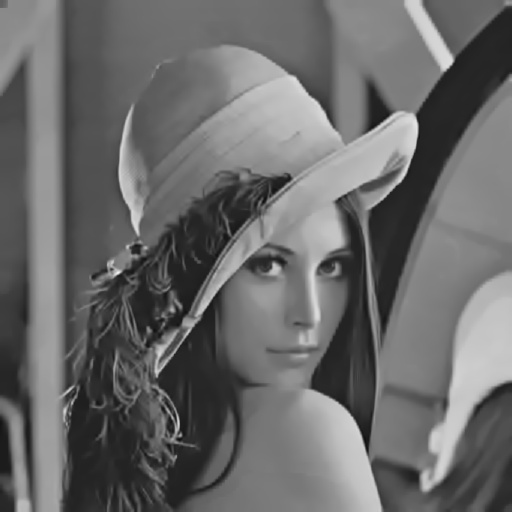
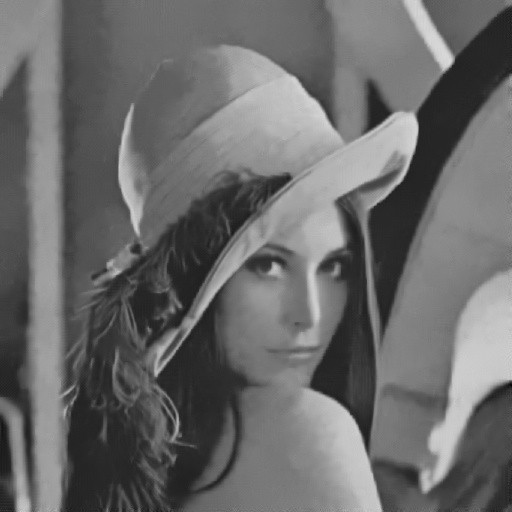
fix some minor bugs

diff --git a/BM3D_Step1.py b/BM3D_Step1.py
@@ -2,10 +2,10 @@ import cv2
 import numpy as np
 
 block_size = 8
-search_window_size = 50
+search_window_size = 39
 search_step = 3
-match_threshold = 50
-max_match_block = 8
+match_threshold = 2500
+max_match_block = 16
 filter_3D_threshold = 70
 beta_Kaiser = 2.0
 
@@ -43,9 +43,10 @@ def block_matching(image, block_coord):
 	img_block_dct = cv2.dct(img_block.astype(np.float64))
 
 	blk_num = int((search_window_size - block_size)/search_step)
+	# print(blk_num)
 	window_x, window_y = get_search_window(image, block_coord)
 
-	similar_blks_dct = np.zeros([blk_num**2, block_size, block_size])
+	similar_blks_dct = np.zeros([blk_num**2, block_size, block_size], dtype=float)
 	similar_blks_pos = np.zeros([blk_num**2, 2], dtype=int)
 	blk_distances = np.zeros(blk_num**2)
 
@@ -59,6 +60,7 @@ def block_matching(image, block_coord):
 			temp_blk_dct = cv2.dct(temp_blk.astype(np.float64))
 
 			distance = np.linalg.norm(img_block_dct - temp_blk_dct)
+			# print(distance)
 
 			# Threshold filtering
 			if distance < match_threshold:
@@ -69,7 +71,8 @@ def block_matching(image, block_coord):
 
 	# Because OpenCV cannot do odd-numbered DCT transforms
 	# so need to limit the value of w
-	if match_index >= max_match_block:
+	# print(match_index)
+	if match_index > max_match_block:
 		match_index = max_match_block
 
 	if match_index%2 == 1:
@@ -77,7 +80,8 @@ def block_matching(image, block_coord):
 	if match_index == 0:
 		match_index = 2
 
-	blk_distances = blk_distances[0:match_index]
+	# blk_distances = blk_distances[0:match_index]
+	# sort = blk_distances.argsort()
 	sort = blk_distances.argsort()
 
 	final_blks_dct = np.zeros([match_index, block_size, block_size])

diff --git a/BM3D_Step2.py b/BM3D_Step2.py
@@ -3,12 +3,12 @@ import numpy as np
 from BM3D_Step1 import coord_boundary, get_search_window
 
 block_size = 8
-search_window_size = 30
+search_window_size = 39
 search_step = 3
-match_threshold = 10
-max_match_block = 8
+match_threshold = 20
+max_match_block = 2
 beta_Kaiser = 2.0
-sigma = 10
+sigma = 25
 
 
 # ==============================================================
@@ -43,6 +43,7 @@ def block_matching(image, noise_image, block_coord):
 			temp_blk_dct = cv2.dct(temp_blk.astype(np.float64))
 
 			distance = np.linalg.norm(img_block_dct - temp_blk_dct)
+			#print(distance)
 
 			# Threshold filtering
 			if distance < match_threshold:
@@ -53,7 +54,7 @@ def block_matching(image, noise_image, block_coord):
 
 	# Because OpenCV cannot do odd-numbered DCT transforms
 	# so need to limit the value of w
-	if match_index >= max_match_block:
+	if match_index > max_match_block:
 		match_index = max_match_block
 
 	if match_index%2 == 1:
@@ -61,7 +62,7 @@ def block_matching(image, noise_image, block_coord):
 	if match_index == 0:
 		match_index = 2
 
-	blk_distances = blk_distances[0:match_index]
+	# blk_distances = blk_distances[0:match_index]
 	sort = blk_distances.argsort()
 
 	# init variables to be returned
@@ -81,6 +82,7 @@ def block_matching(image, noise_image, block_coord):
 		final_noise_blks[i, :, :] = cv2.dct(noise_blk.astype(np.float64))
 
 		final_blks_pos[i, :] = similar_blks_pos[sort[i-1], :]
+
 	return final_blks_dct, final_noise_blks, final_blks_pos, match_index+1
 
 

diff --git a/BM_3D.py b/BM_3D.py
@@ -3,19 +3,27 @@ import numpy as np
 import PSNR
 from BM3D_Step1 import BM3D_step1
 from BM3D_Step2 import BM3D_step2
+import skimage
 
 
 def main():
+	'''
 	filename = 'lena.jpg'
 	origin_image = cv2.imread(filename, cv2.IMREAD_GRAYSCALE)
-	print("Source Image: ", origin_image.shape)
+	noise_image = skimage.util.random_noise(origin_image/256.0, mode='gaussian', seed=42)
+	cv2.imwrite("noise_image.jpg", 256.0*noise_image)
+	'''
 
-	print("BM3D Step 1:")
-	BM3D_step1(origin_image)
-	
-	print("BM3D Step 2:")
+	noise_image = cv2.imread("noise_image.jpg", cv2.IMREAD_GRAYSCALE)
+	print("Source Image: ", noise_image.shape)
+	'''
+	print("Block Matching 3D Step 1:")
+	BM3D_step1(noise_image)
+	'''
+
+	print("Block Matching 3D Step 2:")
 	image = cv2.imread("BM3D_step1.jpg", cv2.IMREAD_GRAYSCALE)
-	BM3D_step2(image, origin_image)
+	BM3D_step2(image, noise_image)
 
 if __name__ == '__main__':
 	main()
